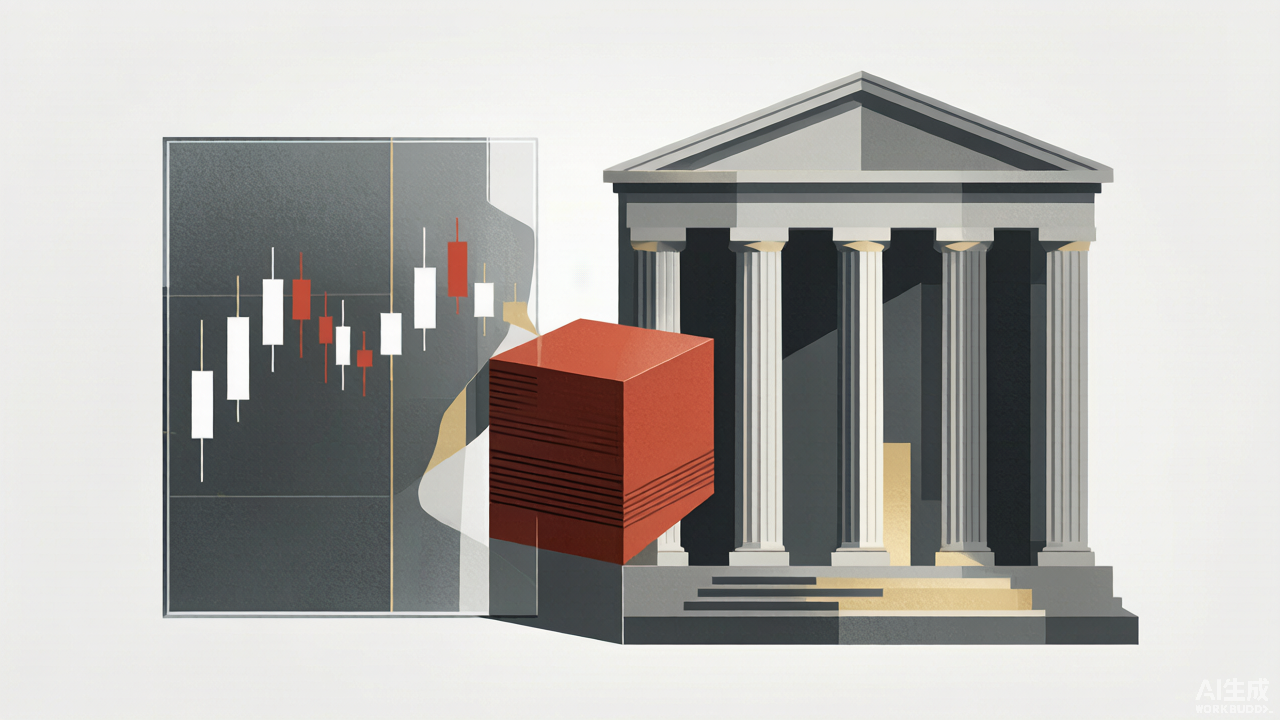
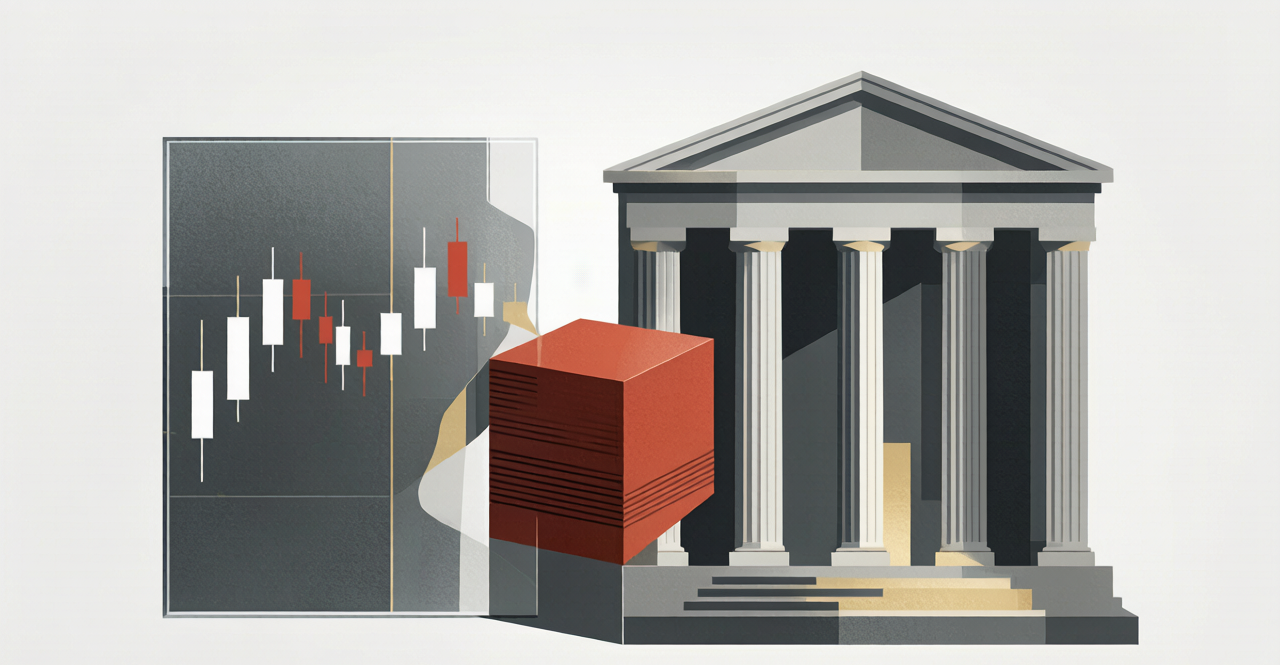
add article 15 15-caodewang-heren

diff --git a/15-caodewang-heren.html b/15-caodewang-heren.html
@@ -2,9 +2,21 @@
 <html lang="zh-CN">
 <head>
 <meta charset="UTF-8">
-<meta name="viewport" content="width=device-width, initial-scale=1.0">
+<meta property="og:title" content="曹德旺：35亿打通中国慈善股捐">
+<meta property="og:description" content="中国股权捐赠第一单背后，是一笔5亿税款的特批，与一个家族控制权的精巧切割">
+<meta property="og:image" content="https://ctobserver.top/assets/og-share.png">
+<meta property="og:image:width" content="1200">
+<meta property="og:image:height" content="630">
+<meta property="og:image:type" content="image/png">
+<meta property="og:url" content="https://ctobserver.top/15-caodewang-heren.html">
+<meta property="og:type" content="article">
+<meta property="og:site_name" content="慈善信托观察 · Charity Trust Observer">
+<meta name="viewport" content="width=device-width, initial-scale=1.0, maximum-scale=1.0, user-scalable=no">
 <title>曹德旺：35亿打通中国慈善股捐</title>
+<link rel="stylesheet" href="/css/style.css">
+<script async src="//busuanzi.ibruce.info/busuanzi/2.3/busuanzi.pure.mini.js"></script>
 <style>
+
   /* ========== 慈善信托观察 · 公众号排版 ========== */
   * { margin: 0; padding: 0; box-sizing: border-box; }
 
@@ -434,19 +446,21 @@
     font-weight: 700;
     color: #c0392b;
   }
+
 </style>
 
 <!-- ===== SEO / AI 可发现性（gen_seo_assets.py 自动生成，勿手改）===== -->
-<meta name="description" content="慈善信托观察是一份独立研究简报，每期深挖一个经典案例，拆解慈善信托与家族财富传承的架构逻辑。">
+<meta name="description" content="中国股权捐赠第一单背后，是一笔5亿税款的特批，与一个家族控制权的精巧切割">
 <link rel="canonical" href="https://ctobserver.top/15-caodewang-heren.html">
 <meta name="author" content="慈善信托观察">
 <meta name="robots" content="index,follow,max-image-preview:large,max-snippet:-1,max-video-preview:-1">
-<meta property="article:published_time" content="2026-09-22">
-<meta property="article:modified_time" content="2026-09-22">
-<script type="application/ld+json">{"@context":"https://schema.org","@type":"Article","headline":"曹德旺：35亿打通中国慈善股捐","description":"慈善信托观察是一份独立研究简报，每期深挖一个经典案例，拆解慈善信托与家族财富传承的架构逻辑。","inLanguage":"zh-CN","image":["https://ctobserver.top/assets/og-share.png"],"author":{"@type":"Organization","name":"慈善信托观察","url":"https://ctobserver.top/"},"publisher":{"@type":"Organization","name":"慈善信托观察 · Charity Trust Observer","logo":{"@type":"ImageObject","url":"https://ctobserver.top/assets/logo.png"}},"mainEntityOfPage":{"@type":"WebPage","@id":"https://ctobserver.top/15-caodewang-heren.html"},"url":"https://ctobserver.top/15-caodewang-heren.html","isPartOf":{"@type":"WebSite","name":"慈善信托观察","url":"https://ctobserver.top/"},"articleSection":"案例研究","datePublished":"2026-09-22","dateModified":"2026-09-22"}</script>
+<meta property="article:published_time" content="2026-10-13">
+<meta property="article:modified_time" content="2026-10-13">
+<script type="application/ld+json">{"@context":"https://schema.org","@type":"Article","headline":"曹德旺：35亿打通中国慈善股捐","description":"中国股权捐赠第一单背后，是一笔5亿税款的特批，与一个家族控制权的精巧切割","inLanguage":"zh-CN","image":["https://ctobserver.top/assets/og-share.png"],"author":{"@type":"Organization","name":"慈善信托观察","url":"https://ctobserver.top/"},"publisher":{"@type":"Organization","name":"慈善信托观察 · Charity Trust Observer","logo":{"@type":"ImageObject","url":"https://ctobserver.top/assets/logo.png"}},"mainEntityOfPage":{"@type":"WebPage","@id":"https://ctobserver.top/15-caodewang-heren.html"},"url":"https://ctobserver.top/15-caodewang-heren.html","isPartOf":{"@type":"WebSite","name":"慈善信托观察","url":"https://ctobserver.top/"},"articleSection":"案例研究","datePublished":"2026-10-13","dateModified":"2026-10-13"}</script>
 <!-- ===== /SEO ===== -->
 </head>
 <body>
+
 
 <!-- ==================== 文章头部 ==================== -->
 <header class="article-header">
@@ -477,7 +491,7 @@
   </div>
   <!-- 配图 -->
   <div class="hero-image">
-    <img src="images/15-caodewang-heren/header.png" alt="文章配图" />
+    <img src="/images/15-caodewang-heren/header.png" alt="文章配图" />
     <div class="image-caption">股权、基金会与家族控制权——一笔35亿捐赠的三方咬合</div>
   </div>
 </header>
@@ -634,5 +648,28 @@
   <div class="footer-tagline">财富传承 &middot; 信托架构 &middot; 案例研究</div>
 </footer>
 
+<!-- 文章底部导航 -->
+<link rel="stylesheet" href="/css/style.css">
+<div class="article-bottom-nav">
+  <a href="/index.html" class="back-btn">返回首页查看往期文章</a>
+  <div class="social-row">
+    <a class="social-link" href="https://weixin.qq.com/sph/sphqv1dNa17uuzo" target="_blank" rel="noopener"><img src="/assets/channels-icon.svg" alt="" width="18" height="18" style="vertical-align:middle"> 蝴蝶号</a>
+    <a class="social-link" href="https://www.ximalaya.com/zhubo/82258855" target="_blank" rel="noopener"><img src="/assets/xmly-icon.svg" alt="" width="18" height="18" style="vertical-align:middle"> 喜马拉雅</a>
+  </div>
+  <div class="brand-line">慈善信托观察</div>
+  <div class="brand-tagline">用商学院的眼睛，看懂慈善信托的每一层结构</div>
+  <div style="margin-top:10px;font-size:12px;color:#888;">联系邮箱：<a href="mailto:lnardoit@gmail.com" style="color:#c0392b;text-decoration:none;">lnardoit@gmail.com</a></div>
+</div>
+<div style="text-align:center;padding:20px 0;font-size:13px;color:#666;">
+  <span id="busuanzi_container_site_pv" style="display:none">
+    总访问 <span id="busuanzi_value_site_pv"></span> 次 &nbsp;|&nbsp;
+  </span>
+  <span id="busuanzi_container_page_pv" style="display:none">
+    本页阅读 <span id="busuanzi_value_page_pv"></span> 次 &nbsp;|&nbsp;
+  </span>
+  <span id="busuanzi_container_site_uv" style="display:none">
+    访客数 <span id="busuanzi_value_site_uv"></span> 人
+  </span>
+</div>
 </body>
 </html>
